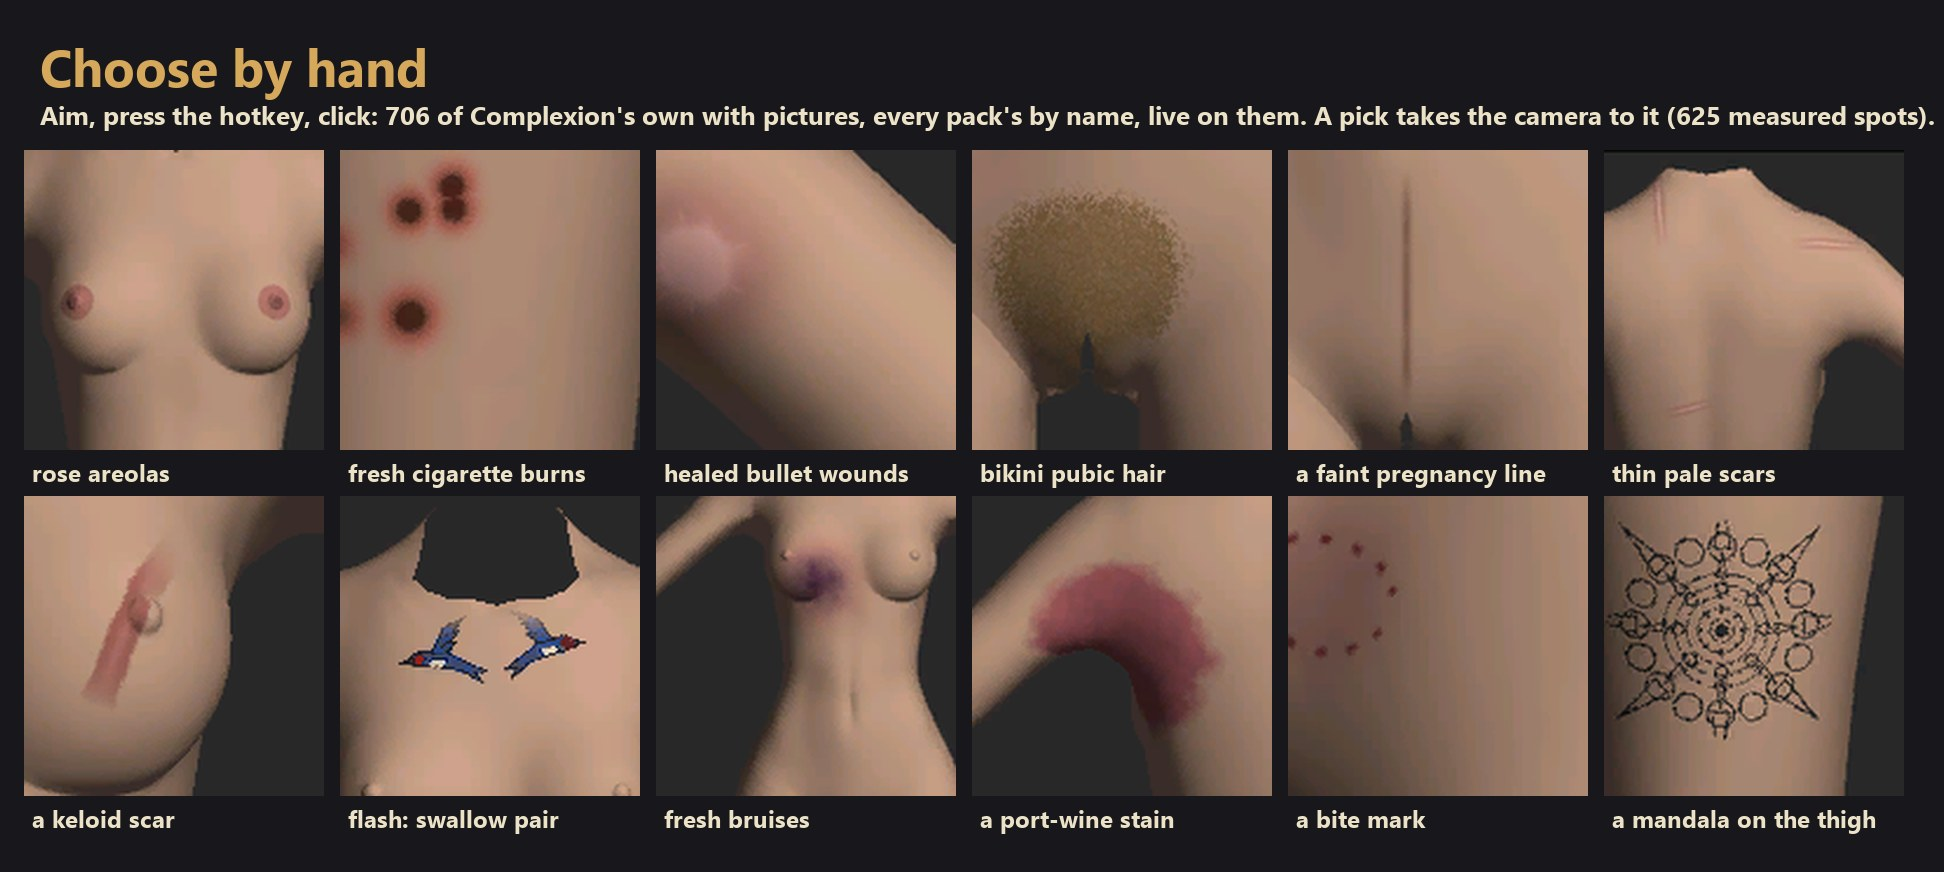
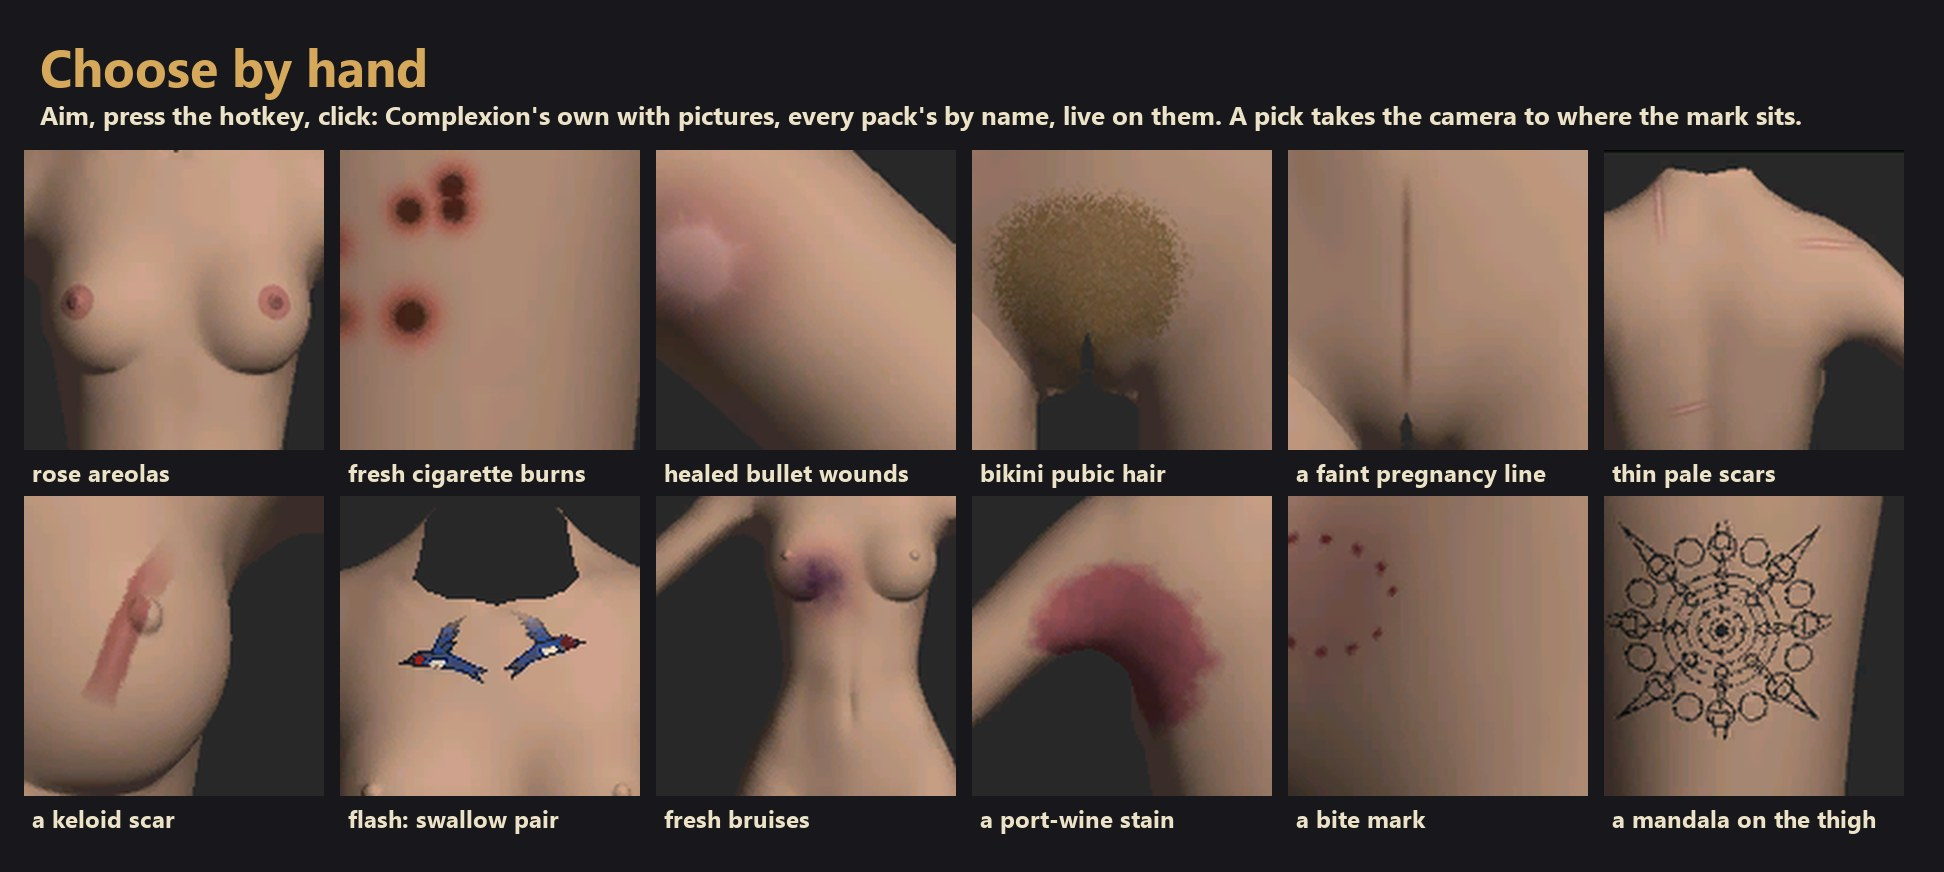
Window card without counts (the owner's no-numbers-in-images rule)
Committed with --no-verify (bearing pre-commit hang).

Claude-Session: https://claude.ai/code/session_01Ps2a7HcBLekRGiX5fDB6ok

Changed region(s): [[0.1852, 0.1239, 1.0, 0.1548]]

diff --git a/tools/paint/card_window.py b/tools/paint/card_window.py
@@ -44,8 +44,11 @@ def main():
         tiles.append((label, pic.resize((300, 300), Image.LANCZOS)))
     total = len(cells)
     spots = len(index.get('focus', {}))
-    card('Choose by hand', f'Aim, press the hotkey, click: {total} of Complexion\'s own with pictures, every pack\'s by '
-         f'name, live on them. A pick takes the camera to it ({spots} measured spots).',
+    # No counts in the picture: they change with every overlay release, and the page text carries them (the
+    # owner's rule, 10-04; the 699 baked here went stale at 0.1.6).
+    del total, spots
+    card('Choose by hand', 'Aim, press the hotkey, click: Complexion\'s own with pictures, every pack\'s by name, '
+         'live on them. A pick takes the camera to where the mark sits.',
          tiles, ROOT / 'docs' / 'img' / 'window.jpg', cols=6)
 
 
